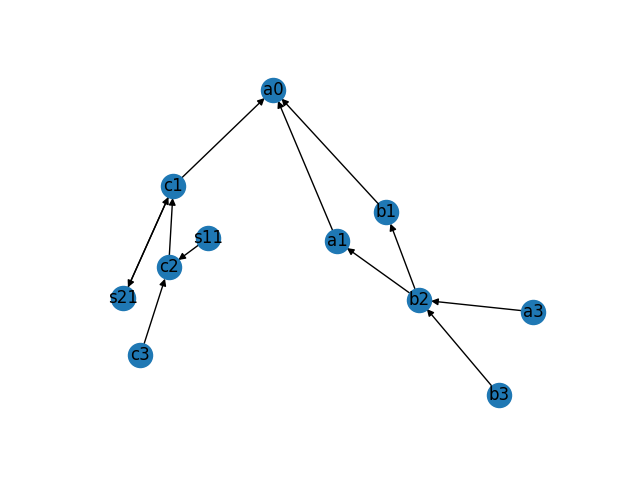
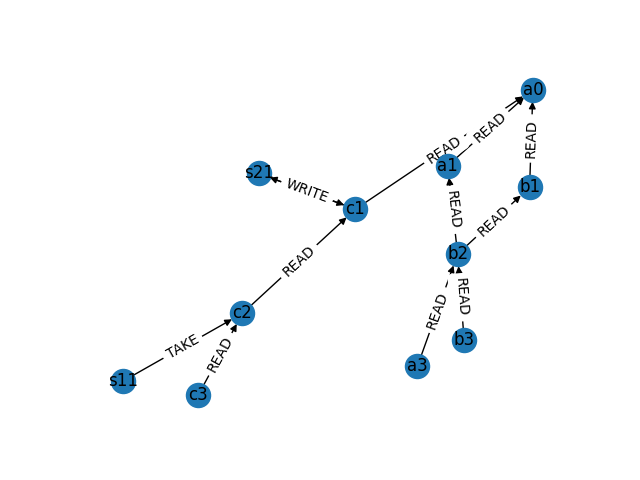
test can_share, fix edge_data

diff --git a/take-grant.py b/take-grant.py
@@ -32,16 +32,20 @@ def read_graph(filename: str):
     graph.add_nodes_from(id_attrs)
 
     id_attrs.clear()
+    edges_to_labels = {}
     for edge in edges:
         id_attrs.append((edge[SOURCE], edge[TARGET], edge[ID], edge))
+        edges_to_labels[(edge[SOURCE], edge[TARGET])] = edge[EDGE_TYPE]
     graph.add_edges_from(id_attrs)
 
-    return graph, nodes_to_labels
+    return graph, nodes_to_labels, edges_to_labels
 
 
-def print_graph(graph: nx.MultiDiGraph, nodes_to_labels: dict[str, str]):
+def print_graph(graph: nx.MultiDiGraph, nodes_to_labels: dict[str, str], edges_to_labels: dict[tuple, str]):
     plt.subplot(111)
-    nx.draw(graph, with_labels=True, labels=nodes_to_labels)
+    pos = nx.spring_layout(graph)
+    nx.draw(graph, pos = pos, with_labels=True, labels=nodes_to_labels)
+    nx.draw_networkx_edge_labels(graph, pos = pos, edge_labels=edges_to_labels)
     plt.savefig('graph_view')
 
 
@@ -107,11 +111,13 @@ def get_edge_data(graph: nx.MultiDiGraph, u: str, v: str, key: str):
 
 
 def is_island_bridge_path(
-        graph: nx.MultiDiGraph, edge: tuple[3], node: str,
-        prev_edge: tuple[3] | None, prev_node: str) -> bool:
+        graph: nx.MultiDiGraph, edge: dict[str, str], node: str,
+        prev_edge: dict[str, str] | None, prev_node: str) -> bool:
 
-    e_src, e_tgt, e_data = edge
-    pe_src, pe_tgt, pe_data = prev_edge
+    e_src, e_tgt, e_data = edge[SOURCE], edge[TARGET], edge
+    
+    if prev_edge != None:
+        pe_src, pe_tgt, pe_data = prev_edge[SOURCE], prev_edge[TARGET], prev_edge
     
     # only tg-paths allowed
     if e_data.get(EDGE_TYPE) not in TG_PATH_TYPES:
@@ -152,12 +158,12 @@ def is_island_bridge_path(
     return False
 
 
-def can_share(a: str, x: str, y: str, graph: nx.MultiDiGraph):
+def can_share(graph: nx.MultiDiGraph, a: str, x: str, y: str):
 
     # condition 1
     edges_x_y = graph.get_edge_data(x, y)
-    for edge in edges_x_y:
-        if edge[EDGE_TYPE] == a:
+    for edge_data in edges_x_y.values():
+        if edge_data[EDGE_TYPE] == a:
             return True
 
     # condition 2
@@ -182,8 +188,8 @@ def can_share(a: str, x: str, y: str, graph: nx.MultiDiGraph):
     undirected_graph_view = graph.to_undirected(as_view=True)
     for xi in xi_ids:
         for si in si_ids:
-            paths = nx.all_simple_edge_paths(undirected_graph_view, xi, si)            
-            for path in paths:
+            paths = nx.all_simple_edge_paths(undirected_graph_view, xi, si)
+            for path in paths:           
                 prev_edge = None
                 for prev_node, curr_node, edge_id in path:
                     edge = get_edge_data(graph, prev_node, curr_node, edge_id)
@@ -196,9 +202,6 @@ def can_share(a: str, x: str, y: str, graph: nx.MultiDiGraph):
     return False
 
 
-g, nodes_to_labels = read_graph('takegrant_example.json')
-# print_graph(g, nodes_to_labels)
-# print(nx.has_path(g.to_undirected(as_view=True),'a364bc99-3c63-416e-aff1-944447f6490b', 'e6c588de-9f16-46a0-bd22-c96f76873911' ))
-# for path in nx.all_simple_edge_paths(g.to_undirected(as_view=True), 'a364bc99-3c63-416e-aff1-944447f6490b', 'e6c588de-9f16-46a0-bd22-c96f76873911'):
-#     print(path)
-# print(g.get_edge_data('b1b399db-f402-4e0d-b7c6-010105f4f261', 'b57685fb-928c-4d4a-a6f6-ac9392d82ca9', '6140db07-74b6-452c-a834-de39932ec283'))
+g, nodes_to_labels, edges_to_labels = read_graph('takegrant_example.json')
+# print_graph(g, nodes_to_labels, edges_to_labels)
+print(can_share(graph=g, a='READ', x='e6c588de-9f16-46a0-bd22-c96f76873911', y='d9f8d86c-48a9-4ffc-a122-26da3f3452eb'))
